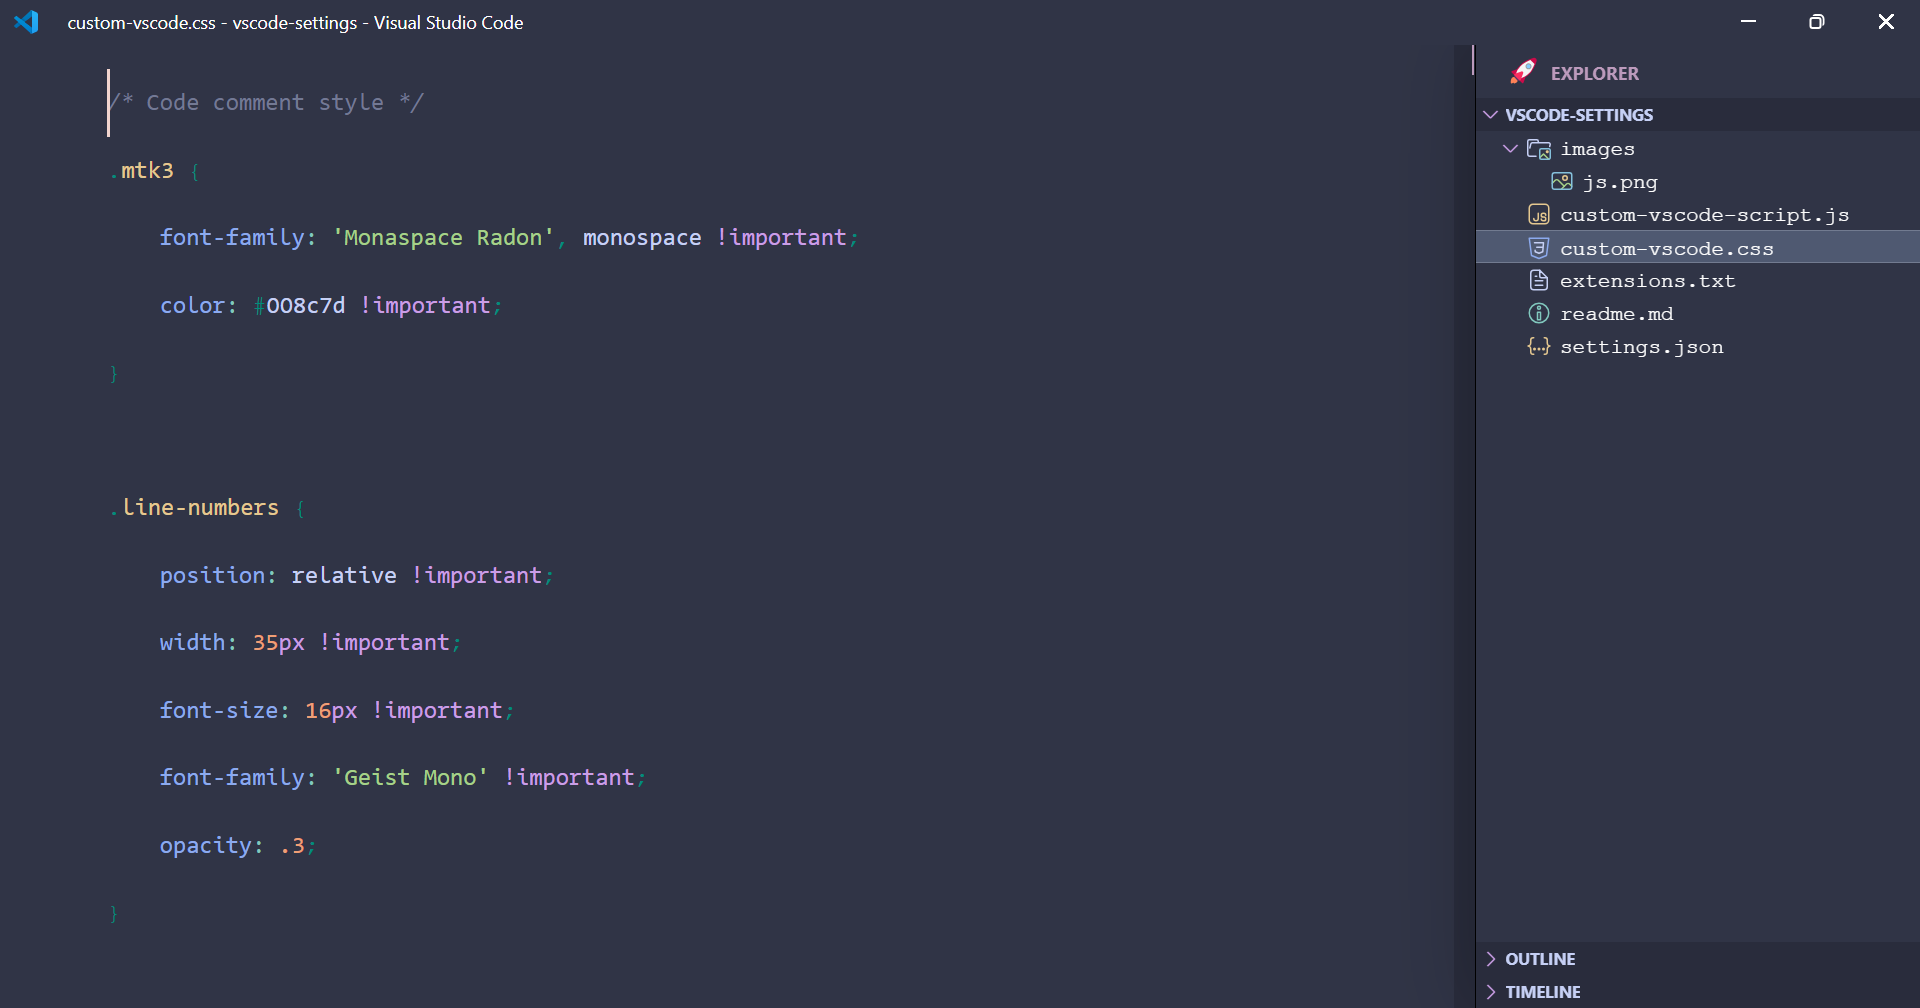
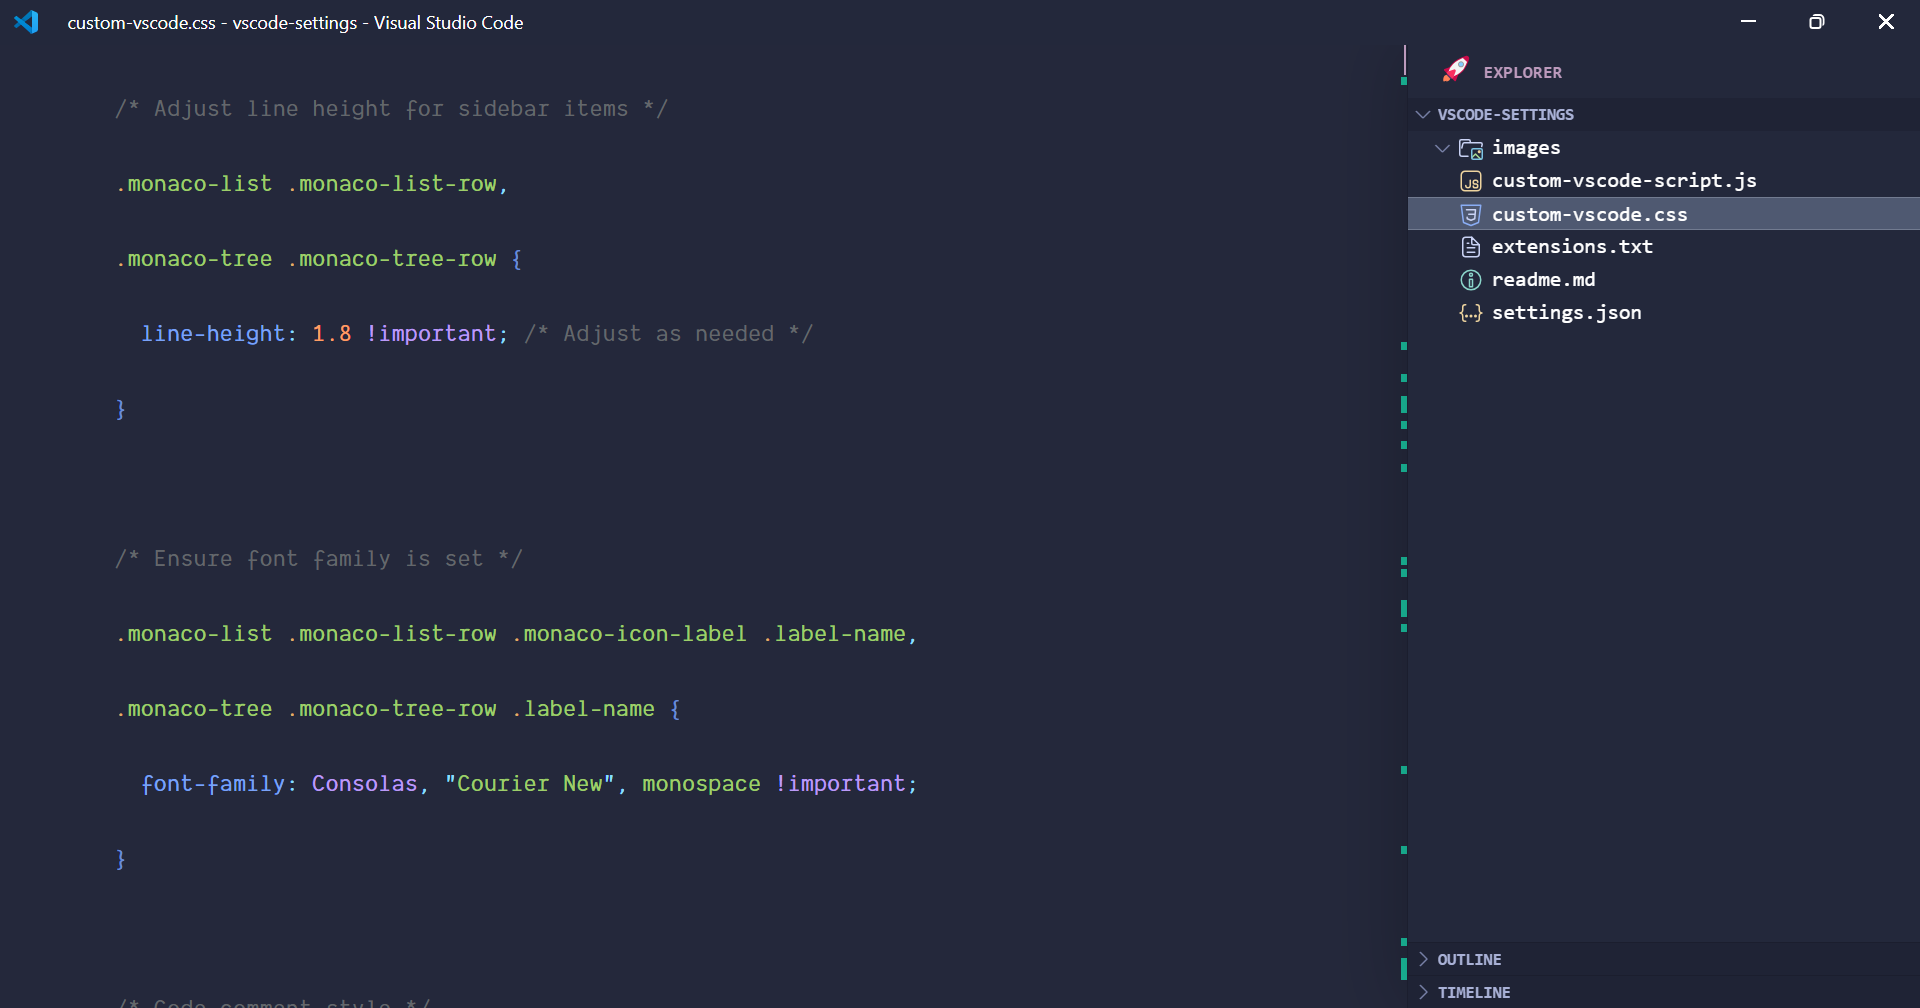
changes in vscode tokyo

diff --git a/custom-vscode.css b/custom-vscode.css
@@ -12,8 +12,8 @@
 
 /* Code comment style */
 .mtk3 {
-  font-family: Consolas, "Courier New", monospace !important;
-  color: #4f5971 !important;
+  font-family: Dank Mono !important;
+  color: #63676b !important;
 }
 
 /* Sidebar Font */
@@ -63,7 +63,7 @@
 
 /* File Explorer Selected Item */
 .monaco-list.list_id_1 .monaco-list-row.selected {
-  background-color: #23283b !important;
+  background-color: #4f5971 !important;
   opacity: 1 !important;
   border-top: 1px #727b90 solid;
   border-bottom: 1px #727b90 solid;
@@ -171,25 +171,15 @@
   display: block;
 }
 
-/* Command Palette
+/* Command Palette */
 .quick-input-widget {
   font-family: Consolas, "Courier New", monospace !important;
   transform: translateY(-50%) !important;
   top: 50% !important;
   box-shadow: 0px 8px 20px rgba(0, 0, 0, 0.45) !important;
   padding: 10px 10px 18px 10px !important;
-  background-image: linear-gradient(#3c3c50 0%, #2a2b38 100%) !important;
-  backdrop-filter: blur(3px) !important;
-  border-radius: 20px !important;
-} */
-
-.quick-input-widget {
-  font-family: Consolas, "Courier New", monospace !important;
-  transform: translateY(-50%) !important;
-  top: 50% !important;
-  box-shadow: 0px 8px 20px rgba(0, 0, 0, 0.45) !important;
-  padding: 10px 10px 18px 10px !important;
-  background-color: #23283b !important; /* Updated background color */
+  /* background is same as tokyo-theme */
+  background-image: linear-gradient(#23283b 0%, #2a2b38 100%) !important;
   backdrop-filter: blur(3px) !important;
   border-radius: 20px !important;
 }
